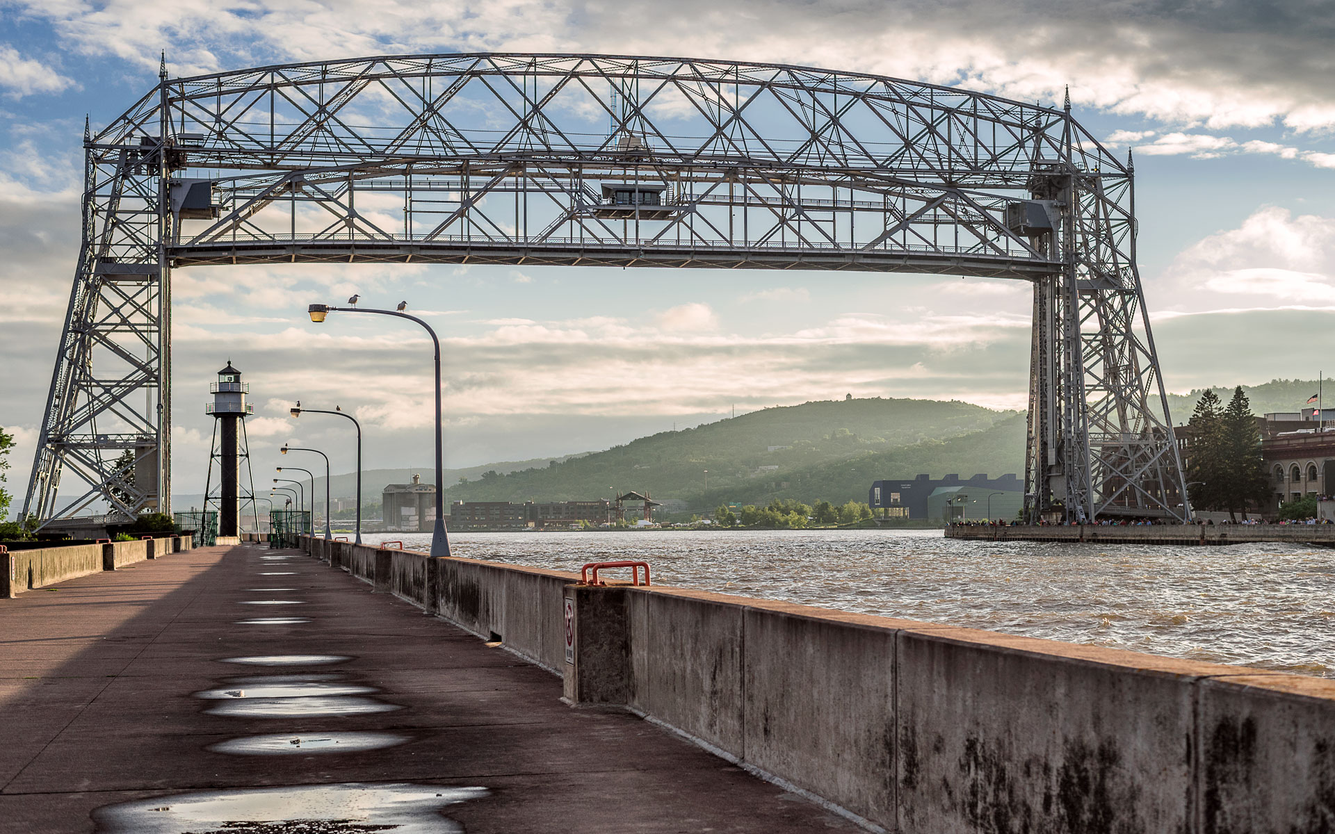
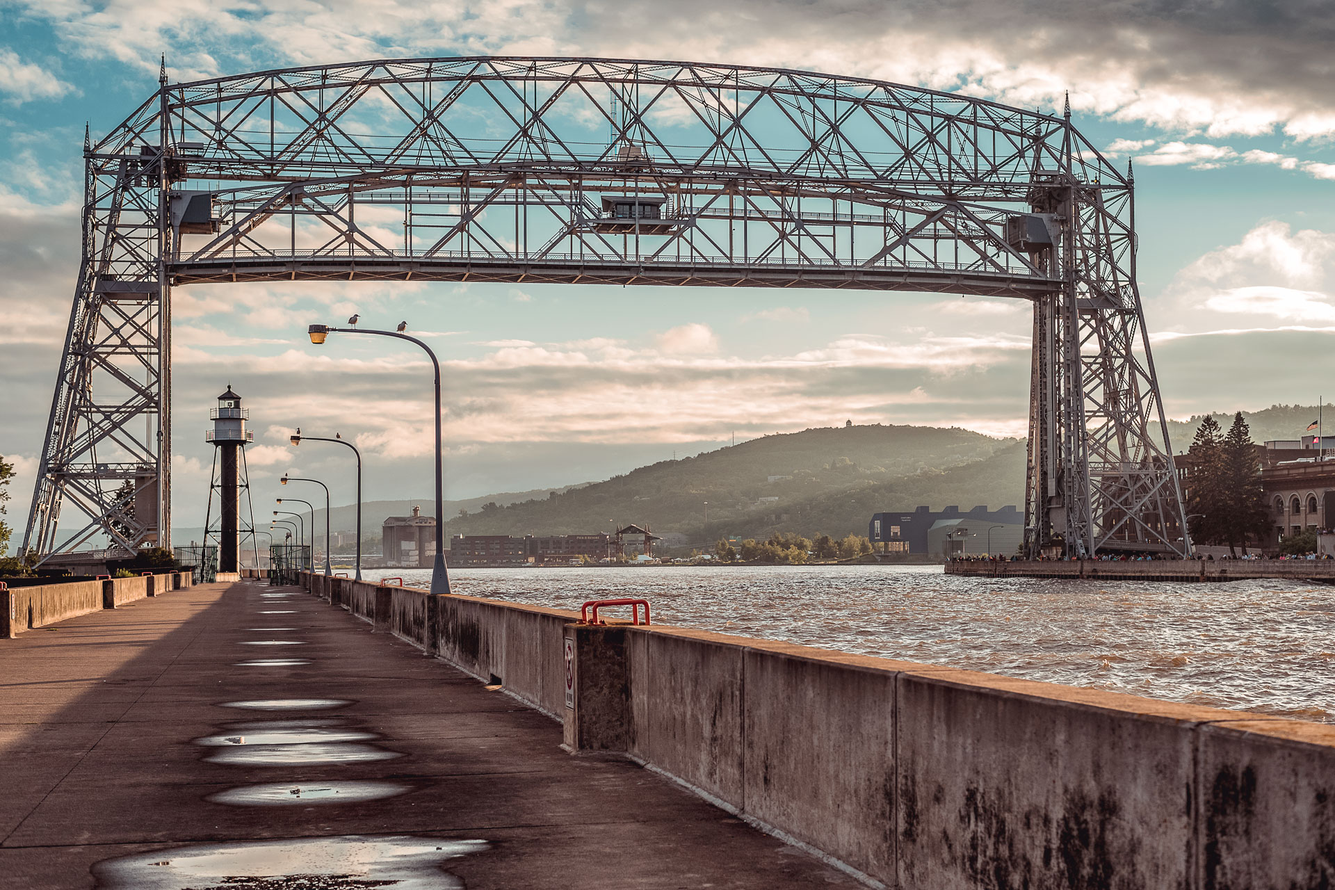
final edited images added

diff --git a/app/assets/stylesheets/posts.scss b/app/assets/stylesheets/posts.scss
@@ -6,15 +6,21 @@
 //////////// Posts (Blog) index ///////////
 
 .blog-head {
-  color: #fff;
+  color: #000;
   text-align: center;
-  margin-top: 60px;
-  border-bottom: solid 1px #fff;
+  margin-top: 80px;
+  margin-bottom: 20px;
 }
 
 .blog-nav {
   display: flex;
   justify-content: space-around;
+  border-bottom: solid 1px #000;
+}
+
+.blog-links {
+  color: #000 !important;
+
 }
 
 .blog-posts {
@@ -23,6 +29,7 @@
 
 .blog-title {
   font-family: 'Cinzel', serif;
+  color: #000 !important;
 }
 
 .blog-image {
@@ -30,15 +37,20 @@
 }
 
 .blog-body {
-  color: #fff;
+  color: #000 !important;
   margin: 10px 0;
   padding: 10px 0;
-  border-bottom: solid 1px #fff;
+  border-bottom: solid 1px #000;
   text-align: center;
 }
 
 .recent-blog {
   display: none;
+  color: #000 !important;
+}
+
+.new-post {
+  color: #000 !important;
 }
 
 /////////////// Post Blog Show ////////////
@@ -49,7 +61,7 @@
 }
 
 .blog-show-head {
-  color: #fff;
+  color: #000;
   text-align: center;
   margin: 60px 0 5px 0;
 }
@@ -59,7 +71,7 @@
 }
 
 .blog-show-body {
-  color: #fff;
+  color: #000;
   margin: 10px;
 }
 
@@ -79,7 +91,7 @@
   }
 
   .recent-blog h1 {
-    border-bottom: solid 1px #fff;
+    border-bottom: solid 1px #00;
   }
   .recent {
     display: none;

diff --git a/app/assets/stylesheets/welcome.scss b/app/assets/stylesheets/welcome.scss
@@ -143,7 +143,7 @@
 
 .port-header {
   text-align: center;
-  margin-top: 60px;
+  margin-top: 80px;
   font-family: 'Cinzel', serif;
   color: #000;
 }
@@ -163,7 +163,7 @@
   opacity: 0.6;
 }
 
-.port-row, .real-estate-port, .headshot-port, .landscape-port, .cityscape-port, {
+.port-page {
   display: flex;
   flex-wrap: wrap;
   padding: 0 4px;
@@ -233,10 +233,10 @@
 }
 
 .about-head {
-  margin-top: 60px;
-  margin-bottom: 0;
+  margin-top: 80px;
+  margin-bottom: 10px;
   color: #000;
-  font-family: 'Playfair Display', serif;
+  font-family: 'Cinzel', serif;
 }
 
 .about-img {
@@ -245,7 +245,7 @@
 }
 
 .about-sm-head {
-  margin: 10px;
+  margin: 15px;
   text-align: left;
   border-bottom: 1px solid #000;
   color: #000;
@@ -254,7 +254,7 @@
 
 .about-p {
   text-align: left;
-  margin: 10px;
+  margin: 0 25px;
   color: #000;
   font-family: 'Playfair Display', serif;
   letter-spacing: 0.2px;
@@ -293,6 +293,7 @@
 
   .about-img, .about-main{
     max-width: 768px;
+    flex: 50%;
     margin: auto;
   }
 
@@ -306,9 +307,9 @@
 
 @media (min-width: 1080px) {
 
-  .port-column {
-    flex: 25%;
-    max-width: 25%;
-  }
+  // .port-column {
+  //   flex: 25%;
+  //   max-width: 25%;
+  // }
 
 }

diff --git a/app/assets/stylesheets/contacts.scss b/app/assets/stylesheets/contacts.scss
@@ -16,7 +16,7 @@
 }
 
 .touch {
-  margin: 10px;
+  margin: 20px;
   text-align: left;
   border-bottom: 1px solid #000;
   color: #000;
@@ -53,6 +53,11 @@
 
 .social-container {
   padding: 0 !important;
+  margin-left: 60px;
+}
+
+.social-bottom {
+  margin-bottom: 20px;
 }
 
 .label-box {
@@ -62,6 +67,7 @@
 .labels {
   color: #000;
   font-family: 'Cinzel', serif !important;
+  margin-top: 10px;
 }
 
 .button {
@@ -86,6 +92,10 @@ form input[type=submit]:hover, a.button:hover, a:link.button:hover, a:visited.bu
 
   .social-con {
     margin-left: 80px !important;
+  }
+
+  .social-container {
+    margin: 0;
   }
 
 }

diff --git a/app/assets/stylesheets/application.scss b/app/assets/stylesheets/application.scss
@@ -37,6 +37,11 @@ html, body{
   position: relative;
 }
 
+.container-fluid {
+  padding: 0;
+  max-width: 1920px;
+}
+
 .main-container {
   min-height: 100vh;
   overflow: hidden;
@@ -50,6 +55,7 @@ html, body{
   margin: 0;
   border: none;
   background-color: rgba(0,0,0,0.8);
+  
 }
 
 
